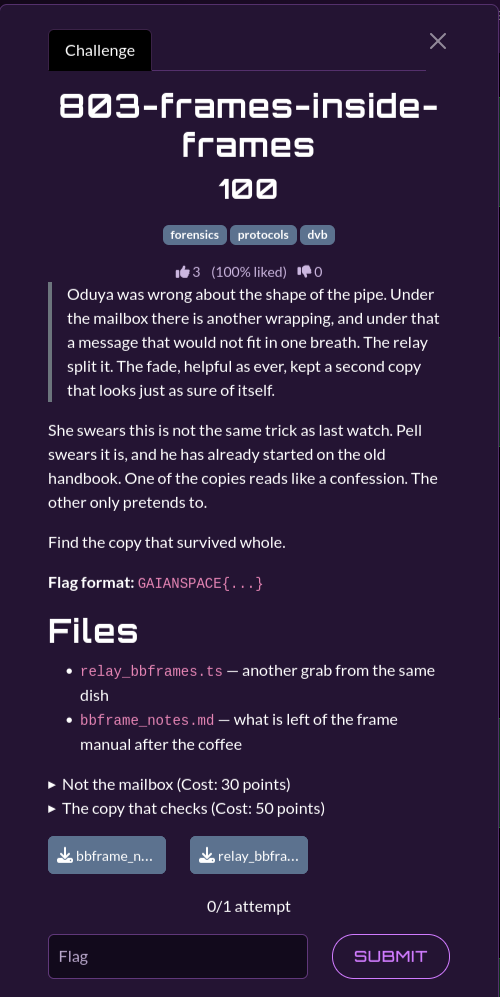
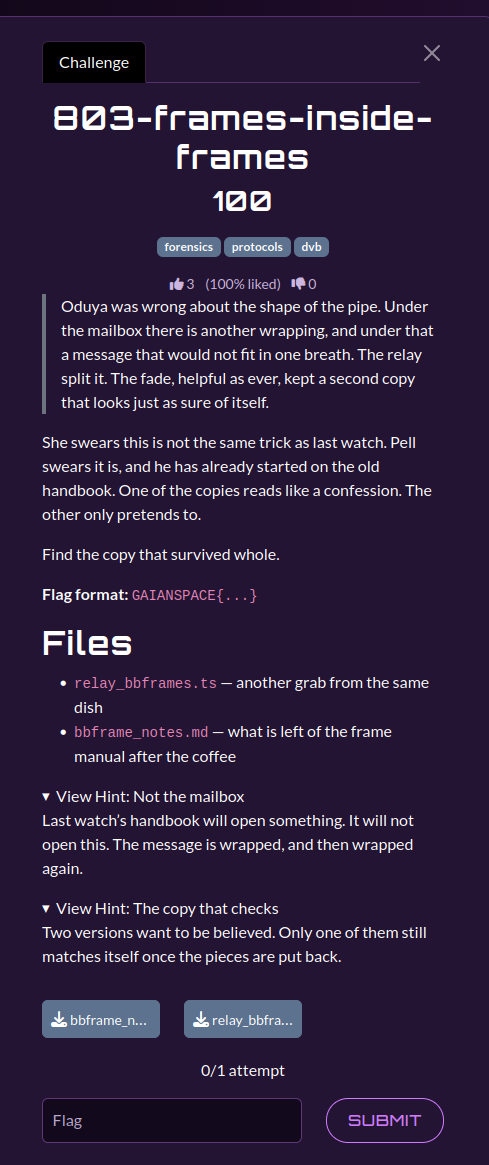
Update README.md

diff --git a/08-silent-carrier/801-torn-frames/README.md b/08-silent-carrier/801-torn-frames/README.md
@@ -22,6 +22,13 @@ Find the name the old operator left on the stream.
 - `halcyon_dump.bin` — the tuner stick, copied off in a hurry
 - `operator_log.txt` — Oduya’s notes from the same watch
 
+## Hints
+
+Two hints were released during the event:
+
+1. **Short breaths** — Oduya says the relay blinks, goes quiet, then blinks again. She stopped laying one ruler across the whole reel.
+2. **The quiet is the cable** — The gaps are the tuner catching its breath. Whatever name is left lives in the blinks, not in the silence between them.
+
 ## Solution
 
 ### Steps

diff --git a/08-silent-carrier/804-lost-sync/README.md b/08-silent-carrier/804-lost-sync/README.md
@@ -20,6 +20,13 @@ A sticker on the recorder says the key is the stardate. Oduya tried that before 
 - `halcyon_mid.bin` — the log, started too late
 - `stationlog_format.md` — a fragment of the maintenance manual
 
+## Hints
+
+Two hints were released during the event:
+
+1. **Started late** — The beginning of the file is not the beginning of a frame. Walk until the frame is willing to introduce itself.
+2. **The clean line** — One line of the log was never smudged. It talks about the ink. The ink is the same on every other line.
+
 ## Solution
 
 ### Steps

diff --git a/08-silent-carrier/802-sections-in-the-static/README.md b/08-silent-carrier/802-sections-in-the-static/README.md
@@ -20,6 +20,13 @@ Pull the crew’s words out of the static. Leave the rotten copies where they fe
 - `eumetcast_grab.ts` — the grab, this one continuous
 - `mpe_notes.md` — a page from a weather-bird handbook, torn at the corner
 
+## Hints
+
+Two hints were released during the event:
+
+1. **The seal** — Oduya keeps a page only when its seal still matches. The faded repeats go back into the static.
+2. **Numbered in the sending** — The crew marked the good pages in the order they were sent. The fade did not respect that order.
+
 ## Solution
 
 ### Steps

diff --git a/08-silent-carrier/805-the-last-carrier/README.md b/08-silent-carrier/805-the-last-carrier/README.md
@@ -21,6 +21,13 @@ Lock it by hand. Read HALCYON-7’s last transmission.
 - `halcyon_iq.json` — the numbers the sampler printed on its own card
 - `plheader_ref.md` — the physical-layer page, stained
 
+## Hints
+
+Two hints were released during the event:
+
+1. **Four times around** — Oduya says the carrier is spinning faster than the letters. Count the spins before you believe the tone.
+2. **The bow** — The frame announces itself with the same word twice. Turn the page until that word sits upright, and the letters follow it.
+
 ## Solution
 
 ### Steps

diff --git a/08-silent-carrier/803-frames-inside-frames/README.md b/08-silent-carrier/803-frames-inside-frames/README.md
@@ -20,6 +20,13 @@ Find the copy that survived whole.
 - `relay_bbframes.ts` — another grab from the same dish
 - `bbframe_notes.md` — what is left of the frame manual after the coffee
 
+## Hints
+
+Two hints were released during the event:
+
+1. **Not the mailbox** — Last watch's handbook will open something. It will not open this. The message is wrapped, and then wrapped again.
+2. **The copy that checks** — Two versions want to be believed. Only one of them still matches itself once the pieces are put back.
+
 ## Solution
 
 ### Steps
